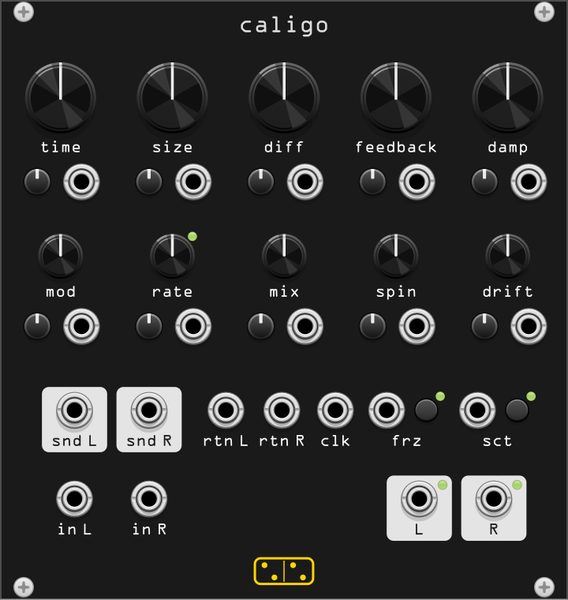
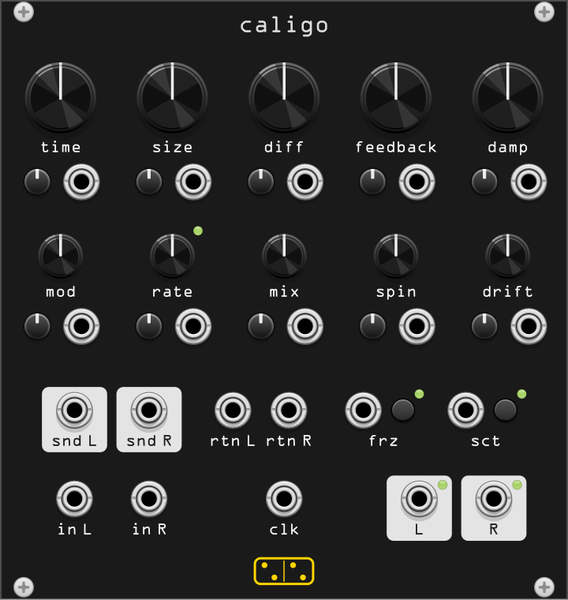
refactor(caligo): clk to the I/O row, LEDs off their controls
clk moves down to the audio row, centred on the middle knob column between
in L/R and out L/R. That fills the ~45 mm gap the four-jack row left above
the logo, and it gives the row above the space to breathe: the loop pair and
the two momentaries now spread across the full width instead of being packed
against the right edge.

The rate LED was 0.28 mm from its knob — the offset antrum uses, but on a
knob that size it reads as touching. It moves from a (4.3, -4.3) mm diagonal
to (5.5, -5.5), so 1.98 mm of clearance, still plainly at the knob's
top-right corner. The frz and sct button LEDs had the same problem less
severely at 0.64 mm and get the same treatment, 1.35 mm now.

panel_audit.py: 0 issues. Images regenerated.

Changed region(s): [[0.3592, 0.63, 0.9577, 0.75], [0.4489, 0.78, 0.5387, 0.9], [0.3292, 0.36, 0.3592, 0.42]]

diff --git a/src/caligo.cpp b/src/caligo.cpp
@@ -534,13 +534,13 @@ struct CaligoWidget : ModuleWidget {
 // @elem SND_R_OUTPUT PJ301MPort 4.01 output "" 0.0
 // @elem RTN_L_INPUT PJ301MPort 4.01 input "" 0.0
 // @elem RTN_R_INPUT PJ301MPort 4.01 input "" 0.0
-// @elem CLK_INPUT PJ301MPort 4.01 input "" 0.0
 // @elem FRZ_INPUT PJ301MPort 4.01 input "" 0.0
 // @elem FRZ_PARAM TL1105 2.6 param "" 0.0
 // @elem SCT_INPUT PJ301MPort 4.01 input "" 0.0
 // @elem SCT_PARAM TL1105 2.6 param "" 0.0
 // @elem IN_L_INPUT PJ301MPort 4.01 input "" 0.0
 // @elem IN_R_INPUT PJ301MPort 4.01 input "" 0.0
+// @elem CLK_INPUT PJ301MPort 4.01 input "" 0.0
 // @elem OUT_L_OUTPUT PJ301MPort 4.01 output "" 0.0
 // @elem OUT_R_OUTPUT PJ301MPort 4.01 output "" 0.0
 // @elem FRZ_LIGHT SmallLight 1.0 light "" 0.0
@@ -560,13 +560,13 @@ struct CaligoWidget : ModuleWidget {
 // @elem LABEL_DRIFT label 0.0 label "drift" 0.0 109.00 63.50
 // @elem LABEL_SND_L label 0.0 label "snd L" 0.0 16.00 95.50
 // @elem LABEL_SND_R label 0.0 label "snd R" 0.0 32.00 95.50
-// @elem LABEL_RTN_L label 0.0 label "rtn L" 0.0 48.50 95.50
-// @elem LABEL_RTN_R label 0.0 label "rtn R" 0.0 60.50 95.50
-// @elem LABEL_CLK label 0.0 label "clk" 0.0 72.00 95.50
-// @elem LABEL_FRZ label 0.0 label "frz" 0.0 87.25 95.50
-// @elem LABEL_SCT label 0.0 label "sct" 0.0 106.75 95.50
+// @elem LABEL_RTN_L label 0.0 label "rtn L" 0.0 50.00 95.50
+// @elem LABEL_RTN_R label 0.0 label "rtn R" 0.0 62.00 95.50
+// @elem LABEL_FRZ label 0.0 label "frz" 0.0 82.25 95.50
+// @elem LABEL_SCT label 0.0 label "sct" 0.0 104.25 95.50
 // @elem LABEL_IN_L label 0.0 label "in L" 0.0 16.00 114.50
 // @elem LABEL_IN_R label 0.0 label "in R" 0.0 32.00 114.50
+// @elem LABEL_CLK label 0.0 label "clk" 0.0 61.00 114.50
 // @elem LABEL_L label 0.0 label "L" 0.0 90.00 114.50
 // @elem LABEL_R label 0.0 label "R" 0.0 106.00 114.50
 // @elem BOX_SND_L panel_box 7.0 box "" 0.0 16.00 90.00
@@ -611,20 +611,20 @@ struct CaligoWidget : ModuleWidget {
         addInput(createInputCentered<PJ301MPort>(mm2px(Vec(113.50f, 70.00f)), module, Caligo::DRIFT_CV_INPUT));
         addOutput(createOutputCentered<PJ301MPort>(mm2px(Vec(16.00f, 88.00f)), module, Caligo::SND_L_OUTPUT));
         addOutput(createOutputCentered<PJ301MPort>(mm2px(Vec(32.00f, 88.00f)), module, Caligo::SND_R_OUTPUT));
-        addInput(createInputCentered<PJ301MPort>(mm2px(Vec(48.50f, 88.00f)), module, Caligo::RTN_L_INPUT));
-        addInput(createInputCentered<PJ301MPort>(mm2px(Vec(60.50f, 88.00f)), module, Caligo::RTN_R_INPUT));
-        addInput(createInputCentered<PJ301MPort>(mm2px(Vec(72.00f, 88.00f)), module, Caligo::CLK_INPUT));
-        addInput(createInputCentered<PJ301MPort>(mm2px(Vec(83.00f, 88.00f)), module, Caligo::FRZ_INPUT));
-        addParam(createParamCentered<TL1105>(mm2px(Vec(91.50f, 88.00f)), module, Caligo::FRZ_PARAM));
-        addInput(createInputCentered<PJ301MPort>(mm2px(Vec(102.50f, 88.00f)), module, Caligo::SCT_INPUT));
-        addParam(createParamCentered<TL1105>(mm2px(Vec(111.00f, 88.00f)), module, Caligo::SCT_PARAM));
+        addInput(createInputCentered<PJ301MPort>(mm2px(Vec(50.00f, 88.00f)), module, Caligo::RTN_L_INPUT));
+        addInput(createInputCentered<PJ301MPort>(mm2px(Vec(62.00f, 88.00f)), module, Caligo::RTN_R_INPUT));
+        addInput(createInputCentered<PJ301MPort>(mm2px(Vec(78.00f, 88.00f)), module, Caligo::FRZ_INPUT));
+        addParam(createParamCentered<TL1105>(mm2px(Vec(86.50f, 88.00f)), module, Caligo::FRZ_PARAM));
+        addInput(createInputCentered<PJ301MPort>(mm2px(Vec(100.00f, 88.00f)), module, Caligo::SCT_INPUT));
+        addParam(createParamCentered<TL1105>(mm2px(Vec(108.50f, 88.00f)), module, Caligo::SCT_PARAM));
         addInput(createInputCentered<PJ301MPort>(mm2px(Vec(16.00f, 107.00f)), module, Caligo::IN_L_INPUT));
         addInput(createInputCentered<PJ301MPort>(mm2px(Vec(32.00f, 107.00f)), module, Caligo::IN_R_INPUT));
+        addInput(createInputCentered<PJ301MPort>(mm2px(Vec(61.00f, 107.00f)), module, Caligo::CLK_INPUT));
         addOutput(createOutputCentered<PJ301MPort>(mm2px(Vec(90.00f, 107.00f)), module, Caligo::OUT_L_OUTPUT));
         addOutput(createOutputCentered<PJ301MPort>(mm2px(Vec(106.00f, 107.00f)), module, Caligo::OUT_R_OUTPUT));
-        addChild(createLightCentered<SmallLight<GreenLight>>(mm2px(Vec(94.50f, 85.00f)), module, Caligo::FRZ_LIGHT));
-        addChild(createLightCentered<SmallLight<GreenLight>>(mm2px(Vec(114.00f, 85.00f)), module, Caligo::SCT_LIGHT));
-        addChild(createLightCentered<SmallLight<GreenLight>>(mm2px(Vec(41.30f, 50.70f)), module, Caligo::RATE_LIGHT));
+        addChild(createLightCentered<SmallLight<GreenLight>>(mm2px(Vec(90.00f, 84.50f)), module, Caligo::FRZ_LIGHT));
+        addChild(createLightCentered<SmallLight<GreenLight>>(mm2px(Vec(112.00f, 84.50f)), module, Caligo::SCT_LIGHT));
+        addChild(createLightCentered<SmallLight<GreenLight>>(mm2px(Vec(42.50f, 49.50f)), module, Caligo::RATE_LIGHT));
         addChild(createLightCentered<SmallLight<GreenLight>>(mm2px(Vec(95.00f, 104.00f)), module, Caligo::LEVEL_L_LIGHT));
         addChild(createLightCentered<SmallLight<GreenLight>>(mm2px(Vec(111.00f, 104.00f)), module, Caligo::LEVEL_R_LIGHT));
         // @layout:end
